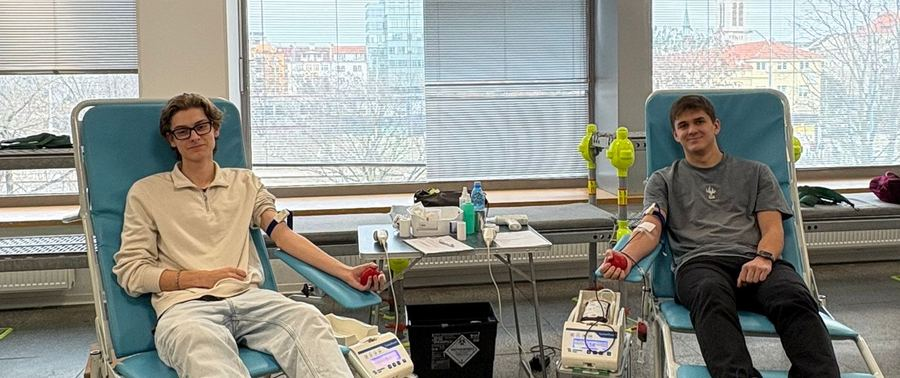
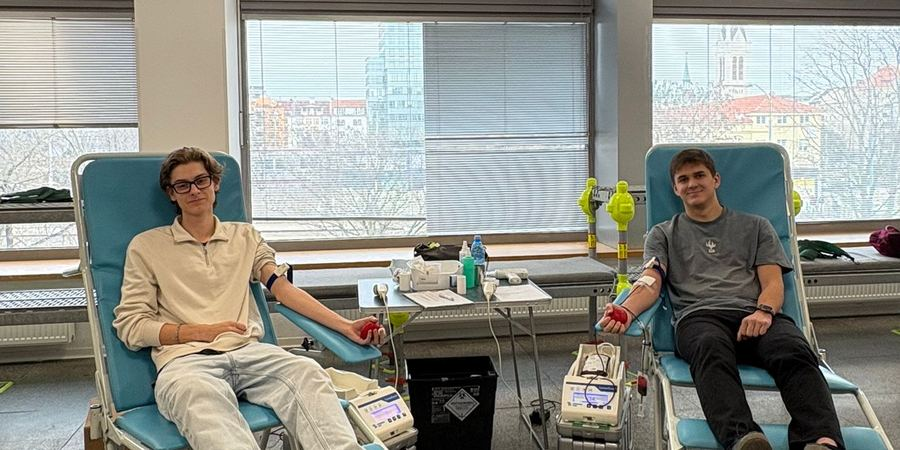
Add files via upload

diff --git a/index.html b/index.html
@@ -178,9 +178,9 @@ h1, h2, h3 { font-family: var(--disp); margin: 0; letter-spacing: -.01em; }
 .prog .e { position: absolute; top: 10px; left: 10px; width: 38px; height: 38px; border-radius: 12px; background: rgba(255,255,255,.9); display: grid; place-items: center; font-size: 20px; }
 .prog b { font-family: var(--disp); font-size: 16px; line-height: 1.1; }
 .prog span { font-size: 11px; opacity: .85; margin-top: 4px; line-height: 1.3; }
-.life { display: flex; gap: 12px; overflow-x: auto; padding: 4px 18px 10px; scroll-snap-type: x mandatory; scrollbar-width: none; }
+.life { display: flex; gap: 12px; overflow-x: auto; padding: 4px 10% 10px; scroll-snap-type: x mandatory; scrollbar-width: none; scroll-padding: 0 10%; }
 .life::-webkit-scrollbar { display: none; }
-.lc { flex: none; width: 78%; max-width: 330px; scroll-snap-align: start; overflow: hidden; }
+.lc { flex: none; width: 80%; max-width: 340px; scroll-snap-align: center; overflow: hidden; }
 .lc .im { height: 160px; background: #ddd center/cover; }
 .lc .tx { padding: 14px 16px 16px; }
 .lc b { font-family: var(--disp); font-size: 19px; display: block; }
@@ -563,7 +563,7 @@ function icsDownload(it, alarms = ['-P1D']) {
 /* ================= Fotky podľa názvu (záloha, ak v databáze chýbajú) ================= */
 const DEFAULT_IMG = {
   'uvod do studia': 'img/ev-uvod.jpg', 'dvojbodka stavbarovica': 'img/ev-dvojbodka.jpg', 'sportovy den': 'img/ev-sport.jpg',
-  'kviz movie night': 'img/ev-kviz.jpg', 'kviz': 'img/ev-kviz.jpg', 'movie night': 'img/ev-movie.jpg', 'kvapka krvi': 'img/ev-krv.jpg', 'mikulassky punc': 'img/ev-punc.jpg',
+  'kviz movie night': 'img/ev-kviz.jpg', 'kviz': 'img/ev-kviz.jpg', 'movie night': 'img/ev-movie.jpg', 'karierny den svf': 'img/ev-karier.jpg', 'karierny den': 'img/ev-karier.jpg', 'slavnostne otvorenie akademickeho roka': 'img/ev-uvod.jpg', 'kvapka krvi': 'img/ev-krv.jpg', 'mikulassky punc': 'img/ev-punc.jpg',
   'stromceky': 'img/ev-stromceky.jpg', 'stavbarsky ples': 'img/ev-ples.jpg', 'your knowledge vikend': 'img/ev-yk.jpg', 'yk': 'img/ev-yk.jpg',
   'uzavierka prihlasok': 'img/ev-uzavierka.jpg', 'den otvorenych dveri svf': 'img/ev-dod.jpg', 'tomas': 'img/buddy-tomas.jpg'
 };
@@ -801,8 +801,8 @@ function autoCarousel(el, dots, ms = 3500) {
   if (!el) return;
   const cards = [...el.children];
   let i = 0, pausedUntil = 0;
-  const pad = () => parseInt(getComputedStyle(el).paddingLeft) || 0;
-  const nearest = () => cards.reduce((b, c, k) => Math.abs(c.offsetLeft - pad() - el.scrollLeft) < Math.abs(cards[b].offsetLeft - pad() - el.scrollLeft) ? k : b, 0);
+  const target = c => c.offsetLeft - (el.clientWidth - c.offsetWidth) / 2;
+  const nearest = () => cards.reduce((b, c, k) => Math.abs(target(c) - el.scrollLeft) < Math.abs(target(cards[b]) - el.scrollLeft) ? k : b, 0);
   const mark = k => dots && [...dots.children].forEach((d, j) => d.classList.toggle('on', j === k));
   el.addEventListener('scroll', () => { clearTimeout(el._st); el._st = setTimeout(() => { i = nearest(); mark(i); }, 80); }, { passive: true });
   const hold = () => { pausedUntil = Date.now() + 6000; };
@@ -812,7 +812,7 @@ function autoCarousel(el, dots, ms = 3500) {
     if (!document.body.contains(el)) return clearInterval(carTimer);
     if (Date.now() < pausedUntil || document.hidden) return;
     i = (i + 1) % cards.length;
-    el.scrollTo({ left: cards[i].offsetLeft - pad(), behavior: 'smooth' });
+    el.scrollTo({ left: target(cards[i]), behavior: 'smooth' });
     mark(i);
   }, ms);
 }

diff --git a/sw.js b/sw.js
@@ -1,5 +1,5 @@
 // SvF Future – offline cache a push notifikácie
-const VERSION = 'svf-future-v13';
+const VERSION = 'svf-future-v14';
 const SHELL = ['./', './index.html', './manifest.json', './icons/icon-192.png', './icons/icon-512.png', './icons/apple-touch-icon.png', './icons/favicon.png',
   './img/hero.jpg', './img/p-psa.jpg', './img/p-ikds.jpg', './img/p-vsvh.jpg', './img/p-geo.jpg', './img/p-kraj.jpg', './img/p-mpm.jpg', './img/p-tms.jpg', './img/p-civil.jpg',
   './img/l-zs.jpg', './img/l-sport.jpg', './img/l-bratislava.jpg', './img/l-lab.jpg', './img/l-prax.jpg', './img/l-priestory.jpg',
